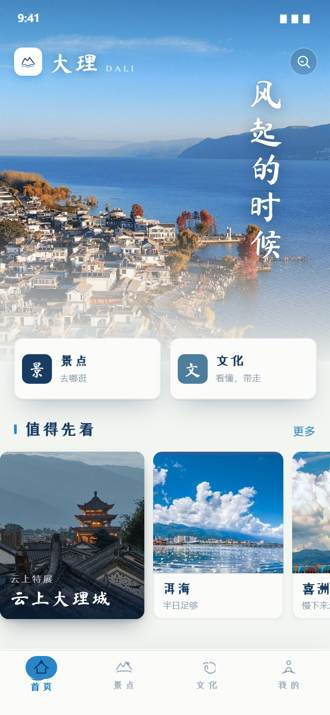
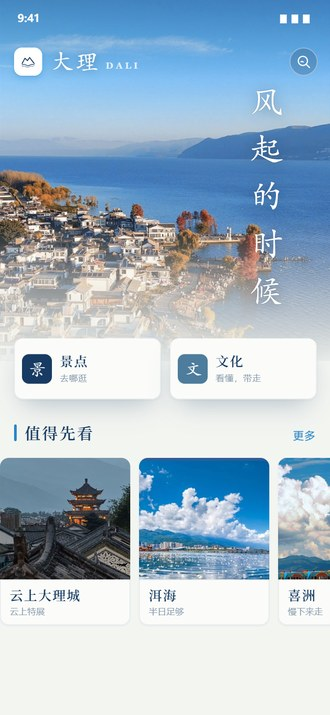
fix(prototype): 首页「云上大理城」卡片统一为常规推荐卡版式
- 去掉 is-exhibit 特展样式（整图铺底 + 底部渐变 + 白字毛笔标题）
- 改为与其他卡一致的「上图下文」白卡：标题 15px 靛蓝 + 副标 10px
- 宽度由 164px 回归 148px，去掉专属深色阴影，推荐带视觉统一
- 同步重出 assets/ui/home.jpg（作品集内嵌的静态首页图）

diff --git a/prototype/styles.css b/prototype/styles.css
@@ -810,7 +810,7 @@ body {
   display: flex;
   gap: 10px;
   margin: 0 -16px;
-  padding: 6px 16px 26px; /* 给特展卡的影子留出不被裁掉的空间 */
+  padding: 6px 16px 26px; /* 给卡片阴影留出不被裁掉的空间 */
   overflow-x: auto;
   scroll-snap-type: x mandatory;
   scrollbar-width: none;
@@ -860,43 +860,7 @@ body {
   color: rgba(23,59,99,.55);
   font-size: 10px;
 }
-/* 特展卡：整张水墨铺底，毛笔字标题，和实景卡区分开 */
-#home .strip-card.is-exhibit {
-  width: 164px;
-  background: var(--home-ink);
-  box-shadow: var(--elev-2-dark);
-}
-#home .strip-card.is-exhibit img {
-  position: absolute;
-  inset: 0;
-  width: 100%;
-  height: 100%;
-  object-fit: cover;
-  object-position: 50% 48%;
-  filter: brightness(.92) saturate(1.06);
-}
-#home .strip-card.is-exhibit span {
-  position: absolute;
-  inset: auto 0 0;
-  height: auto;
-  padding: 14px 12px 12px;
-  color: #fff;
-  background: linear-gradient(180deg, transparent, rgba(10,30,55,.88));
-  border: 0;
-}
-#home .strip-card.is-exhibit em {
-  margin-bottom: 4px;
-  color: rgba(255,255,255,.75);
-  font-style: normal;
-  font-size: 10px;
-  letter-spacing: .24em;
-}
-#home .strip-card.is-exhibit b {
-  font-family: var(--home-brush);
-  font-size: 21px;
-  font-weight: 400;
-  letter-spacing: .1em;
-}
+/* 云上大理城＝特展入口，但沿用实景卡同一套版式：上图下文，保持推荐带视觉统一 */
 
 /* ── 景点列表 / 详情 ────────────────────────────────────────
    列表回答「排不排进今天」；详情回答「值不值得去、怎么逛」。 */

diff --git a/prototype/index.html b/prototype/index.html
@@ -63,9 +63,9 @@
             <span data-go="spots" style="cursor:pointer">更多</span>
           </div>
           <div class="strip">
-            <button class="strip-card is-exhibit" type="button" data-go="exhibit">
+            <button class="strip-card" type="button" data-go="exhibit">
               <img src="./assets/exhibit-tower.jpg" alt="暮色里亮灯的古城楼阁" />
-              <span><em>云上特展</em><b>云上大理城</b></span>
+              <span><b>云上大理城</b><small>云上特展</small></span>
             </button>
             <button class="strip-card" type="button" data-go="spot-erhai">
               <img src="./assets/spot-erhai.jpg" alt="苍山下的洱海与白云" />
